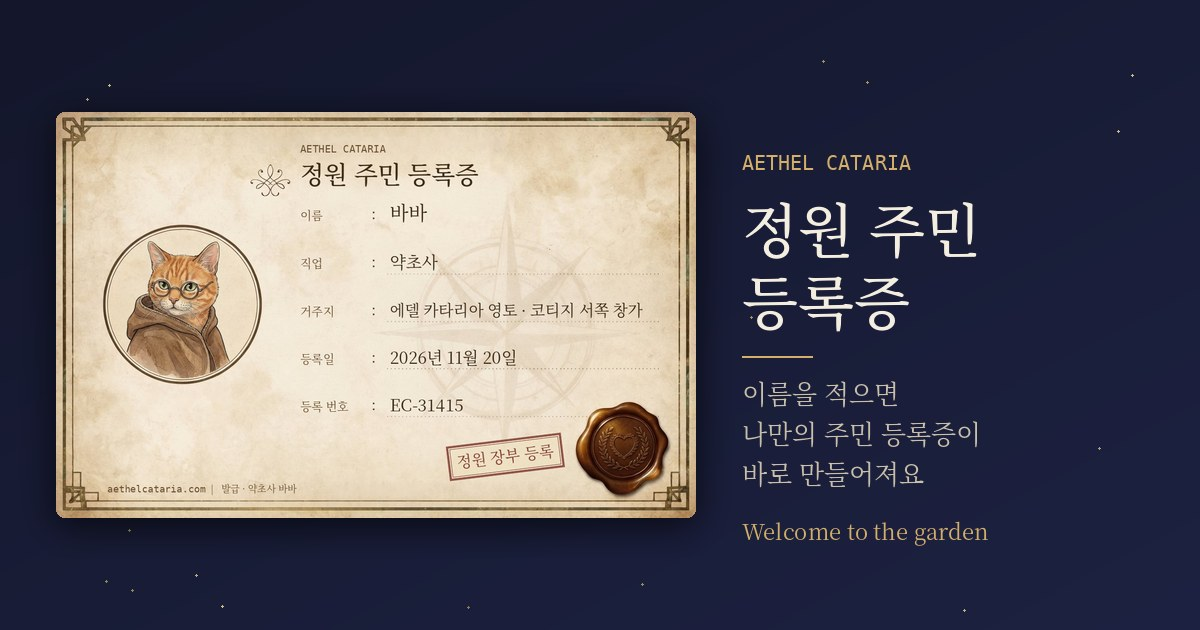
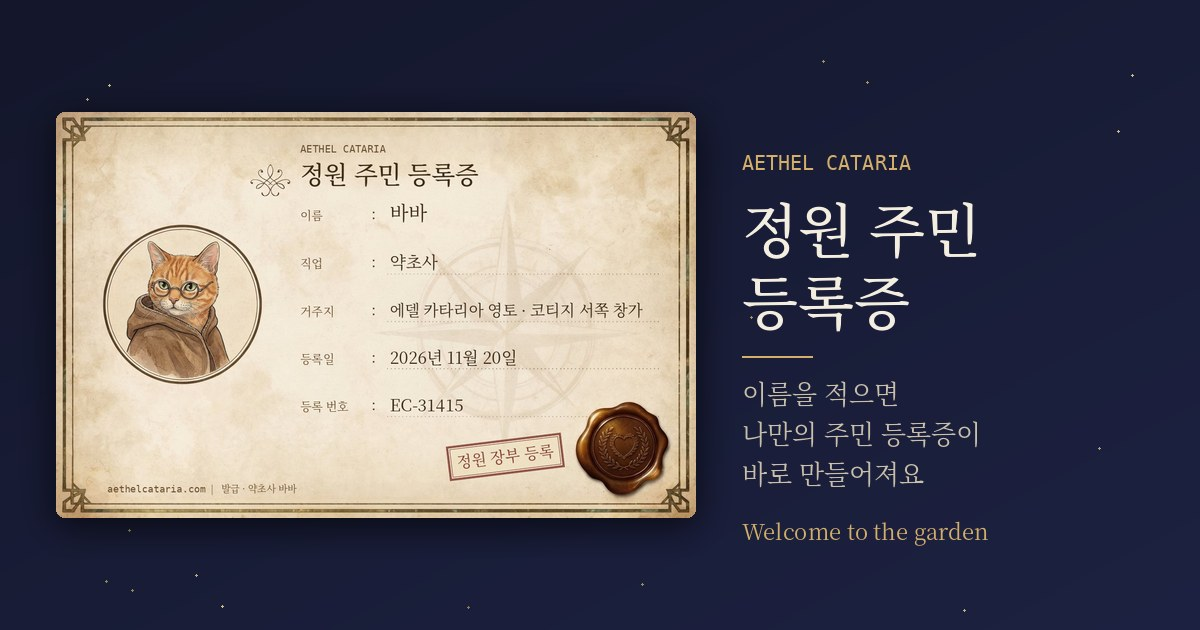
update

Changed region(s): [[0.0308, 0.754, 0.5858, 0.8143]]

diff --git a/citizen.html b/citizen.html
@@ -11,10 +11,12 @@
 <meta property="og:title" content="정원 주민 등록 · Aethel Cataria">
 <meta property="og:description" content="정원 장부에 이름을 적고, 책에 없는 이야기와 새 소식을 가장 먼저 받아 보세요">
 <meta property="og:url" content="https://aethelcataria.com/citizen.html">
-<meta property="og:image" content="https://aethelcataria.com/assets/images/og-default.jpg">
+<meta property="og:image" content="https://aethelcataria.com/assets/images/og-citizen.jpg">
 <meta property="og:image:width" content="1200">
 <meta property="og:image:height" content="630">
+<meta property="og:image:alt" content="에델 카타리아 정원 주민 등록증 견본">
 <meta name="twitter:card" content="summary_large_image">
+<meta name="twitter:image" content="https://aethelcataria.com/assets/images/og-citizen.jpg">
 <link rel="icon" href="favicon.ico" sizes="any">
 <link rel="icon" type="image/png" sizes="32x32" href="favicon-32.png">
 <link rel="apple-touch-icon" href="apple-touch-icon.png">
@@ -220,7 +222,7 @@
         </div>
         <p class="rz-share-note" id="rzShareNote" role="status" aria-live="polite"></p>
         <p class="rz-hint" style="margin-top:4px">인스타그램은 저장한 이미지를 직접 올리거나, 휴대폰에서 "공유하기"를 눌러 보내세요.</p>
-        <p style="margin:22px 0 0" data-hide-ended><a class="btn btn-outline" href="https://tum.bg/da9RQI" target="_blank" rel="noopener" data-live="텀블벅에서 후원하기">텀블벅에서 알림 신청하기</a></p>
+        <p style="margin:22px 0 0" data-hide-ended><a id="rzTb" class="btn btn-outline" href="https://tum.bg/da9RQI" target="_blank" rel="noopener" data-live="텀블벅에서 후원하기">텀블벅에서 알림 신청하기</a></p>
       </div>
     </div>
   </section>
@@ -298,7 +300,7 @@
       nameEl=document.getElementById('rzName'), done=document.getElementById('rzDone'),
       doneName=document.getElementById('rzDoneName'), save=document.getElementById('rzSave');
   var portrait=new Image(); portrait.src=BABA;
-  var bgImg=new Image(); bgImg.src='assets/images/citizen-card-bg.jpg?v=20261115c';
+  var bgImg=new Image(); bgImg.src='assets/images/citizen-card-bg-v2.jpg';
   var photo={img:null,zoom:1,px:0,py:0};
   function photoSide(){ return Math.min(photo.img.naturalWidth,photo.img.naturalHeight)/photo.zoom; }
   function clampPhoto(){
@@ -379,7 +381,7 @@
   ov.addEventListener('click',function(e){ if(e.target===ov) closeOverlay(); });
   document.addEventListener('keydown',function(e){ if(e.key==='Escape'&&!ov.hidden) closeOverlay(); });
   save.addEventListener('click',function(e){
-    e.preventDefault();
+    e.preventDefault(); track('save');
     if(IS_IOS||IN_APP){ openOverlay(); return; }
     fetch(imgEl.src).then(function(r){ return r.blob(); }).then(function(b){
       var u=URL.createObjectURL(b), a=document.createElement('a');
@@ -401,7 +403,10 @@
   var SHARE_TEXT=shareText();
   var shareBtn=document.getElementById('rzShare'), copyBtn=document.getElementById('rzCopy'),
       fbBtn=document.getElementById('rzFb'), twBtn=document.getElementById('rzTw'), shareNote=document.getElementById('rzShareNote');
-  fbBtn.href='https://www.facebook.com/sharer/sharer.php?u='+encodeURIComponent(SHARE_URL)+'&quote='+encodeURIComponent(SHARE_TEXT);
+  // GoatCounter 이벤트: 이름·사진 같은 입력 내용은 보내지 않고, 어떤 버튼이 눌렸는지만 센다.
+  function track(name){ try{ if(window.goatcounter&&window.goatcounter.count) window.goatcounter.count({path:'citizen-'+name,title:'정원 주민 등록증 · '+name,event:true}); }catch(e){} }
+  // 페이스북은 웹 공유 주소로 문구를 미리 채울 수 없어서, 누르면 문구를 복사해 두고 붙여넣기를 안내한다.
+  fbBtn.href='https://www.facebook.com/sharer/sharer.php?u='+encodeURIComponent(SHARE_URL);
   twBtn.href='https://twitter.com/intent/tweet?text='+encodeURIComponent(SHARE_TEXT)+'&url='+encodeURIComponent(SHARE_URL);
   function note(t){ shareNote.textContent=t; clearTimeout(note.t); note.t=setTimeout(function(){ shareNote.textContent=''; },3500); }
   function cardFile(){
@@ -413,12 +418,25 @@
       if(navigator.canShare({files:[probe]})) shareBtn.hidden=false;
     }
   }catch(e){}
+  fbBtn.addEventListener('click',function(){
+    track('share-facebook');
+    function copied(){ note('공유 문구를 복사했어요. 페이스북 글쓰기 창에 붙여 넣어 주세요.'); }
+    try{
+      if(navigator.clipboard&&navigator.clipboard.writeText){ navigator.clipboard.writeText(SHARE_TEXT).then(copied,function(){}); return; }
+      var t=document.createElement('textarea'); t.value=SHARE_TEXT; t.style.position='fixed'; t.style.opacity='0'; document.body.appendChild(t); t.select();
+      var ok=false; try{ ok=document.execCommand('copy'); }catch(e){} document.body.removeChild(t); if(ok) copied();
+    }catch(e){}
+  });
+  twBtn.addEventListener('click',function(){ track('share-x'); });
+  document.getElementById('rzTb').addEventListener('click',function(){ track('tumblbug'); });
   shareBtn.addEventListener('click',function(){
+    track('share-native');
     cardFile().then(function(f){
       return navigator.share({files:[f],title:'정원 주민 등록증',text:SHARE_TEXT,url:SHARE_URL});
     }).catch(function(err){ if(err&&err.name!=='AbortError') note('공유 창을 열지 못했어요. 이미지를 저장해서 올려 주세요.'); });
   });
   copyBtn.addEventListener('click',function(){
+    track('copy-link');
     function fallback(){
       var t=document.createElement('textarea'); t.value=SHARE_URL; t.style.position='fixed'; t.style.opacity='0'; document.body.appendChild(t); t.select();
       var ok=false; try{ ok=document.execCommand('copy'); }catch(e){} document.body.removeChild(t);
@@ -484,6 +502,7 @@
   form.addEventListener('submit',function(e){
     e.preventDefault();
     var name=nameEl.value.replace(/\s+/g,' ').trim(); if(!name){ nameEl.focus(); return; }
+    track('issue');
     Promise.all([ready,fontsReady(name+jobValue())]).then(function(){
       issuedName=name; var url=draw(name,true); imgEl.src=url; imgEl.alt='주민 등록증: '+name;
       save.href=url; save.download='aethelcataria-resident-card.png';
